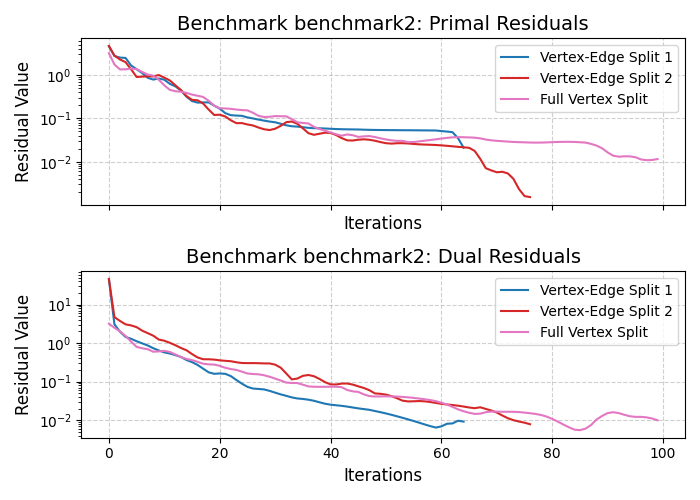
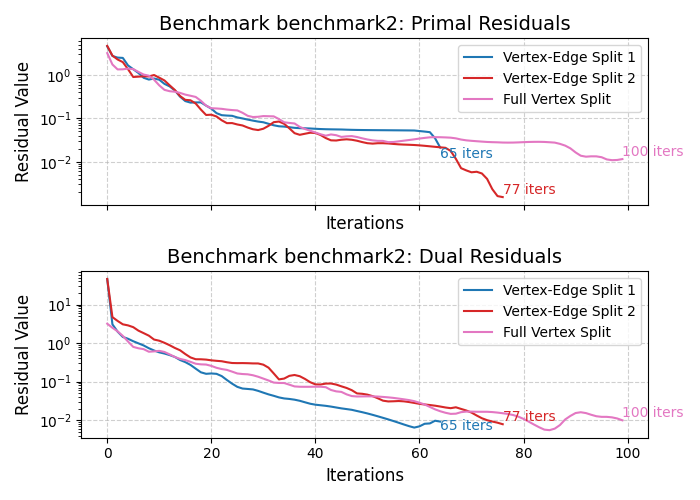
iter labels

diff --git a/process_benchmark_data.py b/process_benchmark_data.py
@@ -40,7 +40,7 @@ algorithm_labels = {
     "v3": "Full Vertex Split"
 }
 colormap = matplotlib.colormaps['tab10']
-algorithm_colors = {alg: colormap(3*i) for i, alg in enumerate(algorithm_order)}  # 3*i to get some nice blue, red, pink
+algorithm_colors = {alg: colormap(3 * i) for i, alg in enumerate(algorithm_order)}  # 3*i to get distinct colors
 
 # Group data by benchmarks
 benchmarks = {}
@@ -49,7 +49,7 @@ for data_file_name, data in loaded_data.items():
     benchmark_name = data_file_name.rsplit('_', 1)[-1]
     if benchmark_name not in benchmarks:
         benchmarks[benchmark_name] = {}
-    benchmarks[benchmark_name][data_file_name] = data
+    benchmarks[benchmark_name][data_file_name] = data    
 
 # Generate Primal Residual & Dual Residual Plots
 for benchmark_name, algorithms_data in benchmarks.items():
@@ -57,7 +57,7 @@ for benchmark_name, algorithms_data in benchmarks.items():
     axs[0].set_title(f"Benchmark {benchmark_name}: Primal Residuals", fontsize=14)
     axs[1].set_title(f"Benchmark {benchmark_name}: Dual Residuals", fontsize=14)
     
-    for algorithm_key in algorithm_order:
+    for idx, algorithm_key in enumerate(algorithm_order):
         # Check if the algorithm exists in this benchmark
         matched_data = None
         for algorithm_name, data in algorithms_data.items():
@@ -68,15 +68,32 @@ for benchmark_name, algorithms_data in benchmarks.items():
         if matched_data and matched_data.get("ADMM"):  # Only plot if ADMM data is present
             pri_res_seq = matched_data.get("pri_res_seq", [])[1:]  # Skip the first residual value
             dual_res_seq = matched_data.get("dual_res_seq", [])[1:]  # Skip the first residual value
+            iterations = matched_data.get("iterations", len(pri_res_seq))  # Use provided iterations or sequence length
             
             label = algorithm_labels.get(algorithm_key, algorithm_key)
             color = algorithm_colors[algorithm_key]
             
+              # just offset blue line to make it look better
+            if algorithm_key == "v1":
+                offset = -0.5
+            else:
+                offset = 0
+            
             # Plot primal residuals
-            axs[0].plot(pri_res_seq, label=label, color=color)
+            line_pri, = axs[0].plot(pri_res_seq, label=label, color=color)
+            if len(pri_res_seq) > 0:
+                x_end_pri = len(pri_res_seq) - 1
+                y_end_pri = pri_res_seq[-1]
+                axs[0].text(x_end_pri, y_end_pri * (1 + offset), f"{iterations} iters", color=color, fontsize=10,
+            verticalalignment='bottom', horizontalalignment='left')
             
             # Plot dual residuals
-            axs[1].plot(dual_res_seq, label=label, color=color)
+            line_dual, = axs[1].plot(dual_res_seq, label=label, color=color)
+            if len(dual_res_seq) > 0:
+                x_end_dual = len(dual_res_seq) - 1
+                y_end_dual = dual_res_seq[-1]
+                axs[1].text(x_end_dual, y_end_dual * (1 + offset), f"{iterations} iters", color=color, fontsize=10,
+            verticalalignment='bottom', horizontalalignment='left')
 
     # Set log scale for both axes
     axs[0].set_yscale("log")
@@ -88,7 +105,7 @@ for benchmark_name, algorithms_data in benchmarks.items():
         ax.set_xlabel("Iterations", fontsize=12)
         ax.set_ylabel("Residual Value", fontsize=12)
         ax.grid(True, linestyle='--', alpha=0.6)
-
+    
     # Adjust layout and save the plot
     plt.tight_layout()
     plt.savefig(f"benchmark_data/plots/{benchmark_name}_residuals.png")
